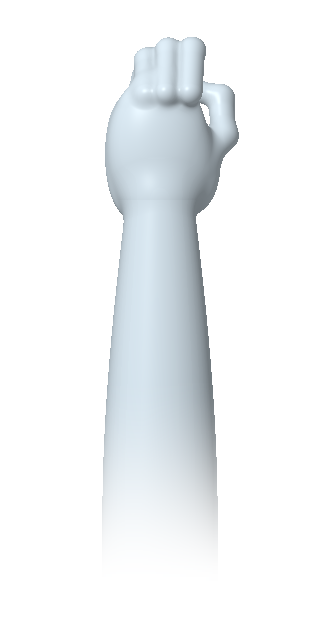
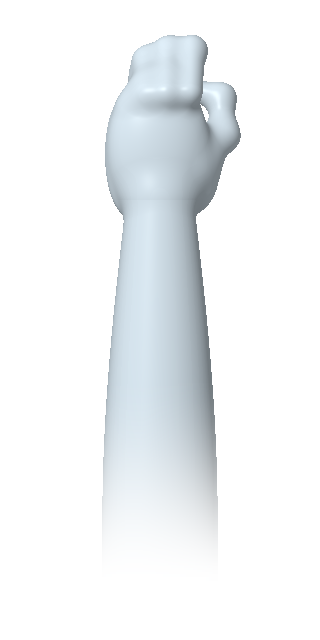
Track live finger motion with smooth gloves and collar occlusion

diff --git a/src/app.js b/src/app.js
@@ -1,9 +1,15 @@
+import {LandmarkStream,assignHands,projectHand,palmFacing} from './live-hands.js';
+import {drawLiveGlove} from './live-glove.js';
 import {prepareHands} from './hand-renderer.js';
 import {drawOpponent,drawGripStudy,drawGripGuides,drawTrackedHands,crossedGrip} from './opponent.js';
-import {GRIP_STEPS,opponentFrame,demonstrationAt,practiceGuide,sceneHands} from './demonstration.js';
+import {GRIP_STEPS,opponentFrame,demonstrationAt,practiceGuide} from './demonstration.js';
 import {TECHNIQUES} from './curriculum.js';
 import {PASS_SCORE,POSES,BONES,HAND_BONES,bodyFrame,targetPose,armMatch,advanceHold} from './pose.js';
 await prepareHands();
+const poseStream=new LandmarkStream(),handStreams=[new LandmarkStream(),new LandmarkStream()];
+let assignedHands=[null,null];
+function resetTrackingDisplay(){poseStream.reset();handStreams.forEach(s=>s.reset());assignedHands=[null,null]}
+const pixel=p=>p?{...p,x:p.x*video.videoWidth,y:p.y*video.videoHeight,z:(p.z??0)*video.videoWidth}:null;
 const $=id=>document.getElementById(id),video=$('video'),canvas=$('overlay'),ctx=canvas.getContext('2d');
 const cyan='#80baff',partner=$('partner'),partnerCtx=partner.getContext('2d');
 let demonstrating=true,demoStarted=performance.now(),demoStep=-1,guideStarted=performance.now();
@@ -29,18 +35,20 @@ function clearScore(){
   $('live-score').dataset.level='waiting';$('live-hold').textContent='몸을 인식하면 점수가 표시됩니다';
 }
 function stop(){
+  resetTrackingDisplay();
   clearScore();
   tapUntil=0;autoStart=false;
   generation++;trackerGeneration++;clearTimeout(initTimer);clearTimeout(frameTimer);worker?.terminate();worker=null;stream?.getTracks().forEach(t=>t.stop());stream=null;video.srcObject=null;video.hidden=true;ready=busy=running=false;mode='idle';points=null;hands=[];lastResult=0;lastVideo=-1;elapsed=hold=countdown=0;score=armScore=handScore=null;$('countdown').hidden=true;$('retry-tracking').hidden=true;ctx.clearRect(0,0,canvas.width,canvas.height);controls();updatePose();
 }
 function fail(message){stop();notify(message,true)}
-function trackingFailed(message){clearScore();autoStart=false;tapUntil=0;
+function trackingFailed(message){resetTrackingDisplay();clearScore();autoStart=false;tapUntil=0;
   trackerGeneration++;clearTimeout(initTimer);clearTimeout(frameTimer);worker?.terminate();worker=null;
   ready=busy=running=false;points=null;hands=[];lastResult=0;hold=countdown=0;score=armScore=handScore=null;
   mode=stream?'preview':'idle';$('countdown').hidden=true;$('retry-tracking').hidden=!stream;controls();
   notify(`${message} 카메라 영상은 유지됩니다. 아래 버튼으로 자세 추적을 다시 연결해 주세요.`,true);
 }
 function connectTracker(){
+  resetTrackingDisplay();
   const session=generation,attempt=++trackerGeneration;
   clearTimeout(initTimer);clearTimeout(frameTimer);worker?.terminate();ready=busy=false;lastVideo=-1;points=null;hands=[];lastResult=0;
   mode='loading';$('retry-tracking').hidden=true;controls();notify('카메라가 연결되었습니다. 자세 추적 모델을 준비하고 있습니다.');
@@ -50,11 +58,14 @@ function connectTracker(){
     worker.onerror=e=>{if(session===generation&&attempt===trackerGeneration)trackingFailed(`추적 모듈 오류: ${e.message||'Worker 실행 실패'}`)};
     worker.onmessage=({data})=>{
       if(session!==generation||attempt!==trackerGeneration)return;
-      if(data.type==='ready'){clearTimeout(initTimer);ready=true;mode='live';if(autoStart){autoStart=false;running=true;countdown=3;$('countdown').hidden=false;}controls();notify('상대는 고정되어 있습니다. 파란 손 표시를 흰색 안내 손 위치로 가져가세요.');}
+      if(data.type==='ready'){clearTimeout(initTimer);ready=true;mode='live';if(autoStart){autoStart=false;running=true;countdown=3;$('countdown').hidden=false;}controls();notify('흰색 손이 내 손가락 움직임을 따라갑니다. 점선 깃 위치로 손을 가져가세요.');}
       if(data.type==='error')trackingFailed(data.message);
       if(data.type==='result'){
         clearTimeout(frameTimer);busy=false;const now=performance.now();fps=lastResult?1000/(now-lastResult):0;lastResult=now;
-        const pixel=p=>({...p,x:p.x*video.videoWidth,y:p.y*video.videoHeight});points=data.points?.map(pixel)??null;hands=data.hands.map(h=>h.map(pixel));
+        points=data.points?.map(pixel)??null;hands=data.hands.map(h=>h.map(pixel));
+        poseStream.update(data.points,now);
+        assignedHands=assignHands(data.hands,data.points,assignedHands);
+        assignedHands.forEach((h,i)=>handStreams[i].update(h,now));
       }
     };worker.postMessage({type:'init'});
   }catch(e){trackingFailed(`추적 모듈을 시작하지 못했습니다: ${e.message}`)}
@@ -91,20 +102,43 @@ function draw(now){
     if(demoStep!==instruction.step){demoStep=instruction.step;updatePose(demoStep)}
     drawGripGuides(ctx,scene,instruction.hands,activeTechnique.directions,mirrored,null,{actions:activeTechnique.actions,finish:instruction.finish});
   }else{
-    drawGripGuides(ctx,scene,practiceGuide(selected,(now-guideStarted)/1000),activeTechnique.directions,mirrored,GRIP_STEPS[selected]);
+    if(mode!=='live')drawGripGuides(ctx,scene,practiceGuide(selected,(now-guideStarted)/1000),activeTechnique.directions,mirrored,GRIP_STEPS[selected]);
+    canvas.dataset.liveHands='0';
     if(frame){
       const target=targetPose(frame,POSES[selected],current),arm=armMatch(current,target,frame.scale);
       score=armScore=arm?.score??null;gripReady=crossedGrip(current,target,frame);
-      drawTrackedHands(ctx,scene,sceneHands(current,frame,target,selected),mirrored);
-      if($('show-skeleton').checked){
+      const shown=poseStream.at(now)?.map(pixel),shownFrame=bodyFrame(shown);
+      if(shownFrame){
+        const shownTarget=targetPose(shownFrame,POSES[selected],shown);
+        for(const p of projectHand([shownTarget[15],shownTarget[16]],shownFrame,scene,mirrored)){
+          ctx.beginPath();ctx.ellipse(p.x,p.y,scene.scale*.07,scene.scale*.10,0,0,Math.PI*2);
+          ctx.strokeStyle='#efcf8dcc';ctx.lineWidth=1.5;ctx.setLineDash([5,5]);ctx.stroke();ctx.setLineDash([]);
+        }
+        const live=handStreams.map((stream,i)=>{
+          const raw=stream.at(now)?.map(pixel);if(!raw)return null;
+          const hand=projectHand(raw,shownFrame,scene,mirrored);
+          const e=shown[13+i],elbow=e&&(e.visibility??1)>=.65?projectHand([e],shownFrame,scene,mirrored)[0]:null;
+          return {hand,elbow,left:i===0,depth:shown[15+i]?.z??0};
+        }).filter(Boolean).sort((a,b)=>b.depth-a.depth);
+        for(const h of live)drawLiveGlove(ctx,h.hand,palmFacing(h.hand,h.left,mirrored),h.elbow);
+        canvas.dataset.liveHands=String(live.length);
+        // Wrist-only tracking remains a dot, never a fabricated closed hand.
+        const wristDots=[15,16].map((id,i)=>{
+          const p=shown[id];if(handStreams[i].at(now)||!p||(p.visibility??1)<.65)return null;
+          return projectHand([p],shownFrame,{origin:{x:0,y:0},scale:1},false)[0];
+        });
+        drawTrackedHands(ctx,scene,wristDots,mirrored);
+      }
+      if($('show-skeleton').checked&&shownFrame){
+        const frame=shownFrame;
         const project=p=>{if(!p)return null;const dx=p.x-frame.origin.x,dy=p.y-frame.origin.y;return {...p,x:scene.origin.x+(mirrored?-1:1)*(dx*frame.x.x+dy*frame.x.y)/frame.scale*scene.scale,y:scene.origin.y+(dx*frame.y.x+dy*frame.y.y)/frame.scale*scene.scale}};
-        skeleton(ctx,current.map(project),cyan,1.5);
-        for(const hand of hands)for(const [a,b]of HAND_BONES)line(ctx,project(hand[a]),project(hand[b]),cyan,1);
+        skeleton(ctx,shown.map(project),cyan,1.5);
+        for(const hand of handStreams.map(s=>s.at(now)?.map(pixel)).filter(Boolean))for(const [a,b]of HAND_BONES)line(ctx,project(hand[a]),project(hand[b]),cyan,1);
       }
     }
   }
-  const feedback=demonstrating?`깃 안쪽: ${activeTechnique.directions.map((d,i)=>`${i?'오른손':'왼손'} ${d==='↑'?'네 손가락':'엄지'}`).join(' · ')}`:!frame?'어깨와 팔꿈치, 양손이 보이도록 서 주세요.':score===null?'손목이나 팔꿈치가 가려졌습니다.':selected===2&&!gripReady?'양손을 교차해 각각 반대편 깃에 맞춰 주세요.':score>=PASS_SCORE?'좋아요. 지금 위치를 3초 유지하세요.':'파란 손 표시를 흰색 손의 도착 위치에 맞춰 주세요.';
-  $('tracking-label').textContent=demonstrating?'시연 중':frame?'손 위치 추적 중':stream?'인식 대기':'대기';
+  const feedback=demonstrating?`깃 안쪽: ${activeTechnique.directions.map((d,i)=>`${i?'오른손':'왼손'} ${d==='↑'?'네 손가락':'엄지'}`).join(' · ')}`:!frame?'어깨와 팔꿈치, 양손이 보이도록 서 주세요.':score===null?'손목이나 팔꿈치가 가려졌습니다.':selected===2&&!gripReady?'양손을 교차해 각각 반대편 깃에 맞춰 주세요.':score>=PASS_SCORE?'좋아요. 지금 위치를 3초 유지하세요.':'흰색 내 손을 점선으로 표시된 깃 위치에 맞춰 주세요.';
+  $('tracking-label').textContent=demonstrating?'시연 중':frame?`${canvas.dataset.liveHands||0}개 손 · 손가락 추적 중`:stream?'인식 대기':'대기';
   $('feedback').textContent=feedback;$('live-feedback').textContent=feedback;
   $('live-score-value').textContent=score??'—';$('live-score').dataset.level=score===null?'waiting':score>=PASS_SCORE?'good':score>=35?'near':'adjust';
   $('live-score-label').textContent=demonstrating?'시연 · 채점 안 함':'팔 위치 일치도 / 100';
@@ -124,7 +158,7 @@ function tick(now){
   $('score-verdict').textContent=score===null?'측정 가능한 자세를 기다려요':score>=PASS_SCORE?'좋아요, 그대로 유지해요':score>=35?'조금만 더 맞춰볼까요':'목표를 천천히 따라가세요';
   $('hold-text').textContent=`${hold.toFixed(1)} / 3.0초`;$('hold-progress').style.width=`${hold/3*100}%`;
   $('timer').textContent=`${String(Math.floor(elapsed/60)).padStart(2,'0')}:${String(Math.floor(elapsed%60)).padStart(2,'0')}`;$('fps').textContent=mode==='live'?`${Math.round(fps)} FPS · RGB CAMERA / 2D`:'RGB CAMERA / 2D';
-  $('stage-hint').textContent=demonstrating?'흰색 손: 시연 · 상대는 고정됩니다':countdown?'잠시 후 시작합니다':running?'도착 위치에서 50점 이상 · 3초 유지':'내 동작 연습을 누르세요';requestAnimationFrame(tick);
+  $('stage-hint').textContent=demonstrating?'흰색 손: 시연 · 상대는 고정됩니다':countdown?'잠시 후 시작합니다':mode==='live'?'흰색 장갑: 내 손 · 점선: 목표 위치':'내 동작 연습을 누르세요';requestAnimationFrame(tick);
 }
 $('start').onclick=start;
 $('demo').onclick=()=>{stop();demonstrating=true;demoStarted=performance.now();demoStep=-1;controls();notify('흰색 손이 준비 → 왼손 교차 → 오른손 교차 → 유지 → 풀기를 반복합니다.')};

diff --git a/src/live-glove.js b/src/live-glove.js
@@ -1,0 +1,66 @@
+const distance=(a,b)=>Math.hypot(a.x-b.x,a.y-b.y);
+const mix=(a,b,t)=>({x:a.x+(b.x-a.x)*t,y:a.y+(b.y-a.y)*t});
+function tube(path,points,radii){
+ const sides=[[],[]];
+ for(let i=0;i<points.length;i++){
+  const a=points[Math.max(0,i-1)],b=points[Math.min(points.length-1,i+1)],length=Math.max(.001,distance(a,b));
+  const nx=-(b.y-a.y)/length,ny=(b.x-a.x)/length;
+  for(let side=0;side<2;side++){const r=radii[i]*(side?-1:1);sides[side].push({x:points[i].x+nx*r,y:points[i].y+ny*r})}
+ }
+ roundedHull(path,[...sides[0],...sides[1].reverse()]);
+}
+function roundedHull(path,points){
+ const area=points.reduce((v,p,i)=>{const q=points[(i+1)%points.length];return v+p.x*q.y-p.y*q.x},0);
+ if(area<0)points=[...points].reverse();
+ const start=mix(points.at(-1),points[0],.5);path.moveTo(start.x,start.y);
+ for(let i=0;i<points.length;i++){const q=mix(points[i],points[(i+1)%points.length],.5);path.quadraticCurveTo(points[i].x,points[i].y,q.x,q.y)}path.closePath();
+}
+// A single softly shaded silhouette has no drawn joint spheres, nails or knuckle lines.
+// All five finger curves come directly from the 21 live landmarks, including partial curls.
+function paintGlove(ctx,hand,palm,elbow=null){
+ if(!hand||hand.length!==21)return;
+ const wrist=hand[0],size=Math.max(distance(wrist,hand[9]),distance(hand[5],hand[17])),r=size*.115;
+ if(size<2)return;
+ const path=new Path2D(),axis={x:hand[9].x-wrist.x,y:hand[9].y-wrist.y},len=Math.max(.001,Math.hypot(axis.x,axis.y));
+ const nx=-axis.y/len,ny=axis.x/len;
+ const cuff=[{x:wrist.x+nx*size*.22,y:wrist.y+ny*size*.22},{x:wrist.x-nx*size*.22,y:wrist.y-ny*size*.22}];
+ // Order the wrist edges by proximity to the thumb side; this survives hand rotation.
+ if(distance(cuff[0],hand[1])>distance(cuff[1],hand[1]))cuff.reverse();
+ roundedHull(path,[cuff[0],hand[1],hand[2],hand[5],hand[9],hand[13],hand[17],cuff[1]]);
+ for(let digit=0;digit<5;digit++){
+   const start=1+digit*4,ids=[start,start+1,start+2,start+3],radius=r*(digit===0?1.16:digit===4?.83:1);
+   tube(path,ids.map(i=>hand[i]),[radius*1.08,radius,radius*.87,radius*.78]);
+ }
+ // A short, tapering cuff meets the tracked forearm instead of ending in a stick.
+ const end=elbow?mix(wrist,elbow,.8):{x:wrist.x-axis.x*.7,y:wrist.y-axis.y*.7};
+ const arm=new Path2D();tube(arm,[end,wrist,mix(wrist,hand[9],.25)],[size*.34,size*.23,size*.27]);
+ ctx.save();
+ const g=ctx.createLinearGradient(wrist.x-nx*size*.65,wrist.y-ny*size*.65,wrist.x+nx*size*.65,wrist.y+ny*size*.65);
+ g.addColorStop(0,'#a9bac5');g.addColorStop(.32,palm?'#e1e8ea':'#eef5fa');g.addColorStop(.62,'#ffffff');g.addColorStop(1,'#aebfc9');
+ const fade=ctx.createLinearGradient(end.x,end.y,wrist.x,wrist.y);
+ fade.addColorStop(0,'#c7d7e000');fade.addColorStop(.45,'#dce8efcc');fade.addColorStop(1,'#e6eff5');
+ ctx.fillStyle=fade;ctx.fill(arm);
+ ctx.fillStyle=g;ctx.shadowColor='#344d6250';ctx.shadowBlur=Math.max(1,size*.06);ctx.fill(path);ctx.shadowBlur=0;
+ ctx.clip(path);
+ if(palm){
+   const center=mix(hand[1],hand[9],.4),pad=ctx.createRadialGradient(center.x,center.y,0,center.x,center.y,size*.5);
+   pad.addColorStop(0,'#a3b4c140');pad.addColorStop(1,'#bccbd000');ctx.fillStyle=pad;ctx.fillRect(center.x-size,center.y-size,size*2,size*2);
+   // One broad palm fold, not per-joint markings.
+   const a=mix(hand[5],wrist,.35),b=mix(hand[17],wrist,.35),c=mix(hand[9],wrist,.64);
+   ctx.beginPath();ctx.moveTo(a.x,a.y);ctx.quadraticCurveTo(c.x,c.y,b.x,b.y);ctx.strokeStyle='#8097a43a';ctx.lineWidth=Math.max(.7,size*.025);ctx.stroke();
+ }
+ ctx.restore();
+}
+
+let surface;
+// Composite the complete glove once so overlapping fingers never become brighter blobs.
+export function drawLiveGlove(ctx,hand,palm,elbow=null){
+ if(!hand)return;
+ surface??=Object.assign(document.createElement('canvas'),{width:512,height:512});
+ const all=elbow?[...hand,elbow]:hand,pad=Math.max(12,distance(hand[0],hand[9])*.5);
+ const x=Math.min(...all.map(p=>p.x))-pad,y=Math.min(...all.map(p=>p.y))-pad;
+ const w=Math.max(...all.map(p=>p.x))-x+pad,h=Math.max(...all.map(p=>p.y))-y+pad,s=Math.min(2,512/Math.max(w,h));
+ const paint=surface.getContext('2d');paint.setTransform(1,0,0,1,0,0);paint.clearRect(0,0,512,512);
+ paint.setTransform(s,0,0,s,-x*s,-y*s);paintGlove(paint,hand,palm,elbow);
+ ctx.save();ctx.globalAlpha=.78;ctx.drawImage(surface,0,0,w*s,h*s,x,y,w,h);ctx.restore();
+}

diff --git a/src/live-hands.js b/src/live-hands.js
@@ -1,0 +1,62 @@
+// Hand identity is assigned before filtering; detector array order can change at a crossing.
+const distance=(a,b)=>Math.hypot(a.x-b.x,a.y-b.y);
+export function assignHands(hands,points,previous=[null,null]){
+  const valid=hands.filter(h=>h?.length===21&&h.every(p=>Number.isFinite(p.x)&&Number.isFinite(p.y)));
+  const cost=(h,side)=>{
+    const wrist=points?.[15+side],old=previous[side]?.[0];
+    if(wrist&&(wrist.visibility??1)>=.65)return distance(h[0],wrist)+(old?.x!==undefined?distance(h[0],old)*.08:0);
+    return old?distance(h[0],old):1;
+  };
+  if(!valid.length)return [null,null];
+  if(valid.length===1){const side=cost(valid[0],0)<=cost(valid[0],1)?0:1;return side?[null,valid[0]]:[valid[0],null]}
+  return cost(valid[0],0)+cost(valid[1],1)<=cost(valid[1],0)+cost(valid[0],1)?valid.slice(0,2):[valid[1],valid[0]];
+}
+const alpha=(cutoff,dt)=>1/(1+1/(2*Math.PI*cutoff*dt));
+// Adaptive low-pass in normalized camera coordinates: quiet hands are stabilized,
+// deliberate motion raises the cutoff. Confidence and tracking loss are never held over.
+export class LandmarkStream{
+  constructor(){this.reset()}
+  reset(){this.previous=null;this.filtered=null;this.velocity=[];this.from=null;this.time=null;this.period=0}
+  update(points,time){
+    if(!points){this.reset();return null}
+    if(this.time===null||time-this.time>250||time<=this.time){
+      this.previous=points.map(p=>p?{...p}:null);this.filtered=this.previous;this.from=this.filtered;
+      this.velocity=points.map(()=>0);this.time=time;this.period=0;return this.filtered;
+    }
+    const dt=Math.max(.001,(time-this.time)/1000),from=this.at(time);
+    this.filtered=points.map((p,i)=>{
+      if(!p||(p.visibility??1)<.65){this.velocity[i]=0;return p?{...p}:null}
+      const old=this.previous[i],f=this.filtered[i];
+      if(!old||!f||(old.visibility??1)<.65){this.velocity[i]=0;return {...p}}
+      const speed=distance(p,old)/dt;
+      this.velocity[i]=(this.velocity[i]||0)+alpha(1,dt)*(speed-(this.velocity[i]||0));
+      const a=alpha(1.8+12*this.velocity[i],dt),out={...p};
+      for(const key of ['x','y','z'])if(Number.isFinite(p[key])&&Number.isFinite(f[key]))out[key]=f[key]+a*(p[key]-f[key]);
+      return out;
+    });
+    this.from=from;this.previous=points.map(p=>p?{...p}:null);this.period=Math.min(65,time-this.time);this.time=time;
+    return this.filtered;
+  }
+  at(time){
+    if(!this.filtered||time-this.time>250)return null;
+    const t=this.period?Math.max(0,Math.min(1,(time-this.time)/this.period)):1;
+    return this.filtered.map((p,i)=>{
+      const a=this.from?.[i];if(!p||!a||(p.visibility??1)<.65||(a.visibility??1)<.65)return p;
+      return {...p,x:a.x+(p.x-a.x)*t,y:a.y+(p.y-a.y)*t,z:(a.z??0)+((p.z??0)-(a.z??0))*t};
+    });
+  }
+}
+export function projectHand(hand,body,scene,mirrored=true){
+  const sign=mirrored?-1:1;
+  return hand.map(p=>{
+    const dx=p.x-body.origin.x,dy=p.y-body.origin.y;
+    return {x:scene.origin.x+sign*(dx*body.x.x+dy*body.x.y)/body.scale*scene.scale,
+      y:scene.origin.y+(dx*body.y.x+dy*body.y.y)/body.scale*scene.scale,z:(p.z??0)/body.scale*scene.scale};
+  });
+}
+// Signed palm normal in image space. Mirroring changes the projection, not identity.
+export function palmFacing(hand,left,mirrored=true){
+  const a=hand[5],b=hand[17],w=hand[0];
+  const cross=(a.x-w.x)*(b.y-w.y)-(a.y-w.y)*(b.x-w.x);
+  return cross*(left?1:-1)*(mirrored?-1:1)>0;
+}

diff --git a/src/opponent.js b/src/opponent.js
@@ -46,6 +46,36 @@ function drawLapels(ctx){
   }
   giLine(ctx,'M .19 .055 Q .09 .32 -.042 .523 Q -.25 .92 -.325 1.135','#ffffffc9',.007);
 }
+// The gripped lapel stays connected to the V collar and bends over the inserted digits.
+function drawGrippedLapels(ctx,contacts){
+  for(const [side,amount]of contacts){
+    if(amount<=0)continue;
+    ctx.save();ctx.scale(side,1);ctx.globalAlpha*=amount;
+    const band='M .19 .04 Q .255 .08 .29 .16 C .24 .245 .27 .32 .235 .38 Q .165 .475 .035 .55 L -.035 .51 Q .105 .365 .13 .28 Q .165 .10 .19 .04 Z';
+    giPaint(ctx,band,clothGradient(ctx,.10,.28,.245,.35),'#9da5ae',.005);
+    for(let j=0;j<4;j++){
+      const d=j*.012;
+      giLine(ctx,`M ${.195+d} .10 Q ${.165+d} .25 ${.165+d} .315 Q ${.19+d} .385 ${.015+d} .52`,'#a3aab39a',.003);
+    }
+    giLine(ctx,'M .19 .065 Q .153 .22 .13 .28 Q .105 .365 -.035 .51','#ffffffcb',.006);
+    ctx.restore();
+  }
+}
+function drawCollarFront(ctx,wrist,angle,left,palmUp,mirrored=false,amount=1){
+  if(amount<=0)return;
+  ctx.save();ctx.translate(wrist.x,wrist.y);ctx.rotate(angle);if(mirrored)ctx.scale(-1,1);
+  // Cover the inserted digit with the continuous cloth edge, not a digit-shaped mask.
+  const side=left?1:-1;
+  ctx.beginPath();
+  if(palmUp)ctx.ellipse(0,-.108*2.55,.041*2.55,.025*2.55,0,0,Math.PI*2);
+  else ctx.ellipse(side*.045*2.55,-.066*2.55,.018*2.55,.031*2.55,0,0,Math.PI*2);
+  ctx.clip();if(mirrored)ctx.scale(-1,1);ctx.rotate(-angle);ctx.translate(-wrist.x,-wrist.y);
+  ctx.globalAlpha=amount;drawGrippedLapels(ctx,[[side*(mirrored?-1:1),1]]);ctx.restore();
+}
+function collarContact(p,index){
+  const target=GRIP_STEPS[2][index],distance=Math.hypot(p.x-target.x,p.y-target.y);
+  const t=Math.max(0,Math.min(1,1-distance/.085));return t*t*(3-2*t);
+}
 let weaveContour;
 function drawJudogi(ctx,belt=true){
   const body='M -.2 .055 Q -.285 .11 -.40 .17 Q -.47 .38 -.44 .66 L -.48 1.1 Q -.48 1.35 -.53 1.55 Q -.27 1.64 .02 1.6 Q .32 1.65 .53 1.55 L .46 1.1 Q .42 .65 .44 .4 Q .44 .26 .39 .17 L .2 .055 L .14 .3 L 0 .55 L -.14 .3 Z';
@@ -105,9 +135,11 @@ export function drawGripStudy(ctx,width,height,directions){
   ctx.translate(width/2,-height*.025);ctx.scale(height*1.18,height*1.18);
   giPaint(ctx,'M -.2 -.05 L .2 -.05 L .18 .19 L 0 .55 L -.18 .19 Z','#dfb99a');
   drawJudogi(ctx,false);
+  drawGrippedLapels(ctx,[[1,1],[-1,1]]);
   for(const [i,p]of GRIP_STEPS[2].entries()){
     const {angle,wrist}=gripPlacement(p,i);
     drawAnatomicalArm(ctx,wrist,angle,i===0,directions[i]==='↑');
+    drawCollarFront(ctx,wrist,angle,i===0,directions[i]==='↑');
 
   }
   ctx.restore();
@@ -138,10 +170,12 @@ export function drawGripGuides(ctx,frame,hands,directions,mirrored=true,targets=
     ctx.beginPath();ctx.ellipse(sign*p.x,p.y,.075,.1,sign*p.x,0,Math.PI*2);
     ctx.fillStyle='#ffffff14';ctx.fill();ctx.strokeStyle='#e6f1f785';ctx.lineWidth=.012;ctx.setLineDash([.025,.025]);ctx.stroke();ctx.setLineDash([]);
   }
+  drawGrippedLapels(ctx,hands.map((p,i)=>[(i?-1:1)*(mirrored?1:-1),collarContact(p,i)]));
   for(const [i,p]of hands.entries()){
     const {angle,wrist}=gripPlacement(p,i,mirrored);
     ctx.save();ctx.globalAlpha=.7;
     drawAnatomicalArm(ctx,wrist,angle,i===0,directions[i]==='↑',true,!mirrored);
+    drawCollarFront(ctx,wrist,angle,i===0,directions[i]==='↑',!mirrored,collarContact(p,i));
     ctx.restore();
 
   }

diff --git a/src/demonstration.js b/src/demonstration.js
@@ -3,7 +3,7 @@ import {POSES,targetPose} from './pose.js';
 const unit={origin:{x:0,y:0},scale:1,x:{x:1,y:0},y:{x:0,y:1}};
 export const GRIP_STEPS=POSES.map(p=>{const target=targetPose(unit,p);return [target[15],target[16]].map(({x,y})=>({x,y}))});
 const REST=[{x:.55,y:1.05},{x:-.55,y:1.05}];
-const ease=t=>{t=Math.max(0,Math.min(1,t));return t*t*(3-2*t)};
+const ease=t=>{t=Math.max(0,Math.min(1,t));return t*t*t*(t*(t*6-15)+10)};
 const blend=(a,b,t)=>a.map((p,i)=>({x:p.x+(b[i].x-p.x)*t,y:p.y+(b[i].y-p.y)*t}));
 
 // The partner's frame depends ONLY on viewport dimensions, never camera landmarks.
@@ -13,8 +13,8 @@ export function opponentFrame(width,height){
 export function demonstrationAt(seconds,technique=null){
   const t=((seconds%12)+12)%12;
   if(t<2)return {step:0,label:'준비 · 가슴 앞에 양손 모으기',hands:blend(REST,GRIP_STEPS[0],ease(t/1.3))};
-  if(t<5)return {step:1,label:technique?`왼손 · ${technique.directions[0]==='↑'?'네 손가락':'엄지'}를 깃 안으로`:'왼손 · 반대편 깃으로 이동',hands:blend(GRIP_STEPS[0],GRIP_STEPS[1],ease((t-2)/1.5))};
-  if(t<8)return {step:2,label:technique?`오른손 · ${technique.directions[1]==='↑'?'네 손가락':'엄지'}를 깃 안으로`:'오른손 · 반대편 깃으로 이동',hands:blend(GRIP_STEPS[1],GRIP_STEPS[2],ease((t-5)/1.5))};
+  if(t<5)return {step:1,label:technique?`왼손 · ${technique.directions[0]==='↑'?'네 손가락':'엄지'}를 깃 안으로`:'왼손 · 반대편 깃으로 이동',hands:blend(GRIP_STEPS[0],GRIP_STEPS[1],ease((t-2)/2))};
+  if(t<8)return {step:2,label:technique?`오른손 · ${technique.directions[1]==='↑'?'네 손가락':'엄지'}를 깃 안으로`:'오른손 · 반대편 깃으로 이동',hands:blend(GRIP_STEPS[1],GRIP_STEPS[2],ease((t-5)/2))};
   if(t<10)return {step:2,label:technique?.finish??'교차 위치 유지 · 손바닥 방향 확인',hands:GRIP_STEPS[2],finish:Math.sin((t-8)/2*Math.PI)**2};
   return {step:0,label:'손 풀기 · 다시 시연합니다',hands:blend(GRIP_STEPS[2],REST,ease((t-10)/2))};
 }
@@ -26,7 +26,7 @@ export function practiceGuide(step,seconds){
 export function gripPlacement(hand,index,mirrored=true){
   const sign=mirrored?-1:1;
   const cross=Math.max(0,Math.min(1,(index?hand.x:-hand.x)/.16));
-  const angle=-sign*(index?-1:1)*(.15+.8*cross),x=sign*hand.x,y=hand.y;
+  const angle=-sign*(index?-1:1)*(.35+.6*ease(cross)),x=sign*hand.x,y=hand.y;
   return {x,y,angle,wrist:{x:x-Math.sin(angle)*.3*.73,y:y+Math.cos(angle)*.3*.73}};
 }
 // Project camera wrists into the fixed scene. Correct target wrists coincide with the guide,

diff --git a/index.html b/index.html
@@ -52,7 +52,7 @@
 
           <div id="live-score" class="live-score" data-level="waiting"><span id="live-score-label">동작 일치도 / 100</span><strong id="live-score-value">—</strong><span id="live-hold">몸을 인식하면 점수가 표시됩니다</span><p id="live-feedback">흰색 손의 이동을 따라하세요.</p></div>
           <div id="opponent-status" class="opponent-status" role="status">깃의 목표에 양손을 맞추세요</div><div id="countdown" class="countdown" hidden></div>
-          <div class="stage-bottom"><span id="stage-hint">어깨와 양손이 화면에 들어오도록 서 주세요</span><div class="legend"><span><i class="target-dot"></i>흰색 안내 손</span><span><i class="user-dot"></i>나의 손</span></div></div>
+          <div class="stage-bottom"><span id="stage-hint">어깨와 양손이 화면에 들어오도록 서 주세요</span><div class="legend"><span><i class="target-dot"></i>흰색 장갑</span><span><i class="user-dot"></i>인식 위치</span></div></div>
         </div>
         <div id="welcome" class="welcome"><p>흰색 손의 시연을 먼저 확인하세요.</p><button id="start" class="primary">카메라 켜고 연습 <span>↗</span></button></div>
         <div class="transport"><div><button id="demo" class="outline demo-button" aria-pressed="true">동작 시연 ↻</button><button id="play" class="primary small">내 동작 연습 <span>▶</span></button><button id="reset" class="icon-button" title="현재 동작 다시 시작" aria-label="현재 동작 다시 시작" disabled>↺</button><span id="timer">00:00</span></div><div><button id="video-shortcut" class="quiet">강도관 영상 ↗</button><label class="toggle"><input id="show-skeleton" type="checkbox" /><span></span>관절 표시</label><label class="toggle"><input id="mirror" type="checkbox" checked /><span></span>거울 모드</label><button id="stop" class="quiet" disabled>카메라 끄기</button></div></div>

diff --git a/README.md b/README.md
@@ -113,3 +113,18 @@ python scripts/extract-hand-rig.py
 node scripts/render-hand-assets.cjs <Playwright 패키지 경로>
 node scripts/browser-hand-rig.cjs <Playwright 패키지 경로>
 ```
+
+## 실시간 흰 장갑
+
+자동 시연에서는 AAH 참고 모델의 고정 그립을 사용합니다. 카메라 연습에서는 기존 MediaPipe HandLandmarker가 반환한 21개 관절을 매 프레임 흰 장갑 표면으로 그립니다. 손가락마다 굽힘을 반영하며, 두 손의 검출 순서가 바뀌어도 몸의 좌우 손목과 직전 위치를 이용해 동일한 손에 연결합니다. 상대 캐릭터는 고정됩니다.
+
+`src/live-hands.js`의 적응형 필터와 프레임 사이 보간은 표시 좌표에만 적용합니다. 원래 인식 모델·신뢰도 설정과 팔 위치 채점 입력은 유지합니다. 인식이 끊긴 손은 숨기고 다시 검출되면 필터를 초기화합니다. 실제 손가락은 추적하더라도 깃을 실제로 잡았는지, 압박이 적절한지는 채점하지 않습니다.
+
+`src/live-glove.js`는 관절 구체나 손톱 없이 손바닥과 다섯 손가락의 윤곽을 한 표면으로 합성합니다. 손바닥은 넓은 음영과 얕은 주름으로 구분하고 팔목은 팔꿈치 방향으로 흐려집니다. GPU 렌더러 없이 Canvas 2D에서 동작합니다. 그립 설명과 자동 시연에서는 이어진 도복 깃을 엄지/손끝 앞에 겹쳐 깃 안쪽으로 들어가는 부분을 표현합니다.
+
+```sh
+node --test tests/*.test.mjs
+node scripts/browser-live-hands.cjs <Playwright 패키지 경로>
+```
+
+실시간 장갑 검사는 합성 관절로 펴기·부분 쥐기·주먹·교차, 검출 순서 반전, 거울 모드, 추적 끊김·복구, 모바일 화면과 카메라 해제를 검증합니다. 실제 웹캠의 손가락 인식 정확도는 조명과 손 가림에 영향을 받으며 이 검사의 측정 범위에 포함되지 않습니다.
